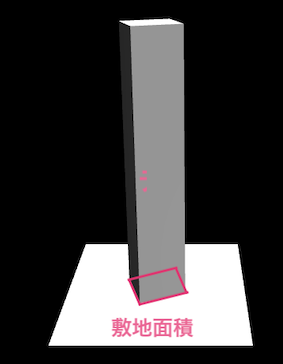
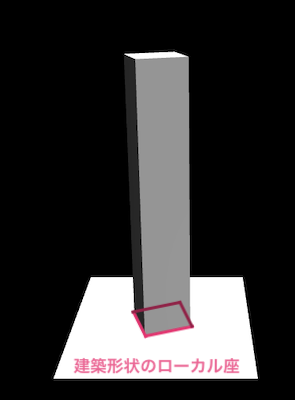
fix figure2

Changed region(s): [[0.1696, 0.0302, 0.9046, 0.967]]

diff --git a/docs/manual/ConditionalVolumeGeneration.html b/docs/manual/ConditionalVolumeGeneration.html
@@ -247,19 +247,18 @@
 </code></pre>
 <p>各パラメーターに関して説明します。</p>
 <ul>
-<li>siteArea<br>
+<li><p>siteArea<br>
 敷地面積を入力します。
-入力する値の単位は平方メートルです。
-敷地面積は建物が建っている敷地全体の面積になります。</li>
-</ul>
-<p><img src="../resources/manual/conditionalVolumeGeneration/foot.png" alt=""></p>
-<ul>
-<li>building<br>
+入力する値の単位は平方メートルです。<br>
+敷地面積は、容積率と掛け算して、最大の延べ床面積を算出し、階数（建物高さ）の最大値を算定するために使用します。</p>
+</li>
+<li><p>building<br>
 フットプリント(敷地に対する建築の占有領域)の中心を原点(x:0, y:0, z:0)とし、 フットプリントのポリゴンの各頂点座標を入力します。<br>
 座標は平面座標系(Z方向が高さを表します)、単位はメートルで入力します。<br>
-この座標配列から高さ方向に押し出しポリゴン生成方式で建物形状のモデルデータを生成します。</li>
+この座標配列から高さ方向に押し出しポリゴン生成方式で建物形状のモデルデータを生成します。</p>
+</li>
 </ul>
-<p><img src="../resources/manual/conditionalVolumeGeneration/foot2.png" alt=""></p>
+<p><img src="../resources/manual/conditionalVolumeGeneration/foot.png" alt=""></p>
 <ul>
 <li>syasenPlanes<br>
 道路外側斜線制限平面のローカル座標を入力します。<br>
